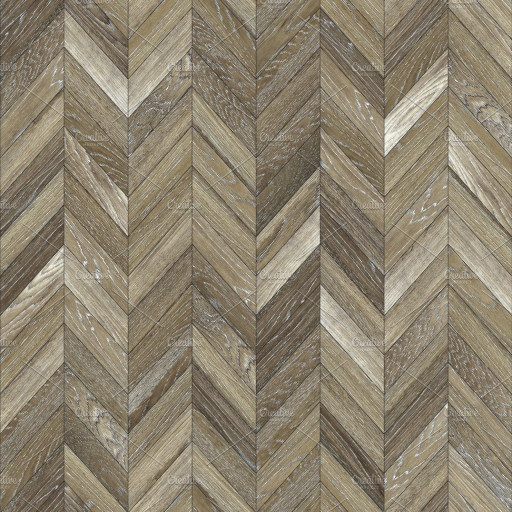
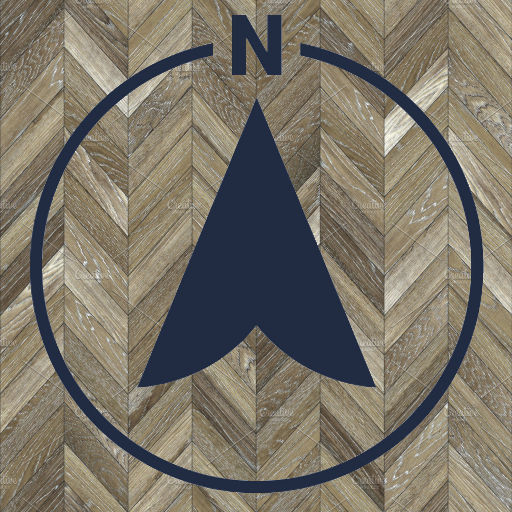
Adds compass and centerpieces (stu)

Changed region(s): [[0.0312, 0.0312, 0.9688, 0.9688], [0.25, 0.1875, 0.75, 0.7812]]

diff --git a/WpfApp2/MazeGui.xaml b/WpfApp2/MazeGui.xaml
@@ -19,7 +19,7 @@
 
                 <ModelVisual3D>
                     <ModelVisual3D.Content>
-                        <DirectionalLight x:Name = "dirLightMain" Direction = "-1,-1,-1">
+                        <DirectionalLight x:Name="dirLightMain" Direction="-1,-1,-1">
                         </DirectionalLight>
                     </ModelVisual3D.Content>
                 </ModelVisual3D>
@@ -30,14 +30,49 @@
                     </ModelVisual3D.Content>
                 </ModelVisual3D>
 
-                <ModelVisual3D x:Name = "MyModel">
+                <ModelVisual3D x:Name="modelCenterpiece">
+                    <ModelVisual3D.Content>
+                        <GeometryModel3D>
+                            
+                            <GeometryModel3D.Geometry>
+                                <MeshGeometry3D x:Name="meshCenterpiece"
+                                    Positions="0 0 0  1 0 0
+                                                0 1 0  1 1 0"
+                                    Normals="0 0 -1  0 0 -1
+                                                0 0 -1  0 0 -1"
+                                    TextureCoordinates="1 1  0 1
+                                                1 0  0 0"
+                                    TriangleIndices="2 1 0  3 1 2">
+                                </MeshGeometry3D>
+                            </GeometryModel3D.Geometry>
+                            
+                            <GeometryModel3D.Material>
+                                <DiffuseMaterial x:Name="matDiffuseCenterpiece">
+                                    <DiffuseMaterial.Brush>
+                                        <ImageBrush ImageSource="Assets/stu.png"/>
+                                    </DiffuseMaterial.Brush>
+                                </DiffuseMaterial>
+                            </GeometryModel3D.Material>
+                            
+                            <GeometryModel3D.Transform>
+                                <Transform3DGroup>
+                                    <TranslateTransform3D OffsetX="-0.5" OffsetY="-0.6" OffsetZ="0"></TranslateTransform3D>
+                                    <ScaleTransform3D ScaleX="0.75" ScaleY="0.75" ScaleZ="1"></ScaleTransform3D>
+                                </Transform3DGroup>
+                            </GeometryModel3D.Transform>
+                            
+                        </GeometryModel3D>
+                    </ModelVisual3D.Content>
+                </ModelVisual3D>
+
+                <ModelVisual3D x:Name="modelWholeRoom">
                     <ModelVisual3D.Content>
                         <Model3DGroup>
                             <Model3DGroup.Children>
                                 <GeometryModel3D>
 
                                     <GeometryModel3D.Geometry>
-                                        <MeshGeometry3D x:Name = "meshFloor"
+                                        <MeshGeometry3D x:Name="meshFloor"
                                             Positions="0 0 0  1 0 0
                                                         0 0 1  1 0 1"
                                             
@@ -54,7 +89,7 @@
                                     </GeometryModel3D.Geometry>
 
                                     <GeometryModel3D.Material>
-                                        <DiffuseMaterial x:Name = "matDiffuseFloor">
+                                        <DiffuseMaterial x:Name="matDiffuseFloor">
                                             <DiffuseMaterial.Brush>
                                                 <ImageBrush ImageSource="Assets/floor.png"/>
                                             </DiffuseMaterial.Brush>
@@ -73,7 +108,7 @@
                                 <GeometryModel3D>
 
                                     <GeometryModel3D.Geometry>
-                                        <MeshGeometry3D x:Name = "meshCeiling"
+                                        <MeshGeometry3D x:Name="meshCeiling"
                                             Positions="0 1 1  1 1 1
                                                         0 1 0  1 1 0"
                                             
@@ -90,7 +125,7 @@
                                     </GeometryModel3D.Geometry>
 
                                     <GeometryModel3D.Material>
-                                        <DiffuseMaterial x:Name = "matDiffuseCeiling">
+                                        <DiffuseMaterial x:Name="matDiffuseCeiling">
                                             <DiffuseMaterial.Brush>
                                                 <ImageBrush ImageSource="Assets/ceil.png"/>
                                             </DiffuseMaterial.Brush>
@@ -108,7 +143,7 @@
 
                                 <GeometryModel3D>
                                     <GeometryModel3D.Geometry>
-                                        <MeshGeometry3D x:Name = "meshWallNorth"
+                                        <MeshGeometry3D x:Name="meshWallNorth"
                                             Positions="0 0 1  1 0 1
                                                         0 1 1  1 1 1"
                                             
@@ -125,7 +160,7 @@
                                     </GeometryModel3D.Geometry>
 
                                     <GeometryModel3D.Material>
-                                        <DiffuseMaterial x:Name = "matDiffuseNorth">
+                                        <DiffuseMaterial x:Name="matDiffuseNorth">
                                         </DiffuseMaterial>
                                     </GeometryModel3D.Material>
 
@@ -140,7 +175,7 @@
 
                                 <GeometryModel3D>
                                     <GeometryModel3D.Geometry>
-                                        <MeshGeometry3D x:Name = "meshWallSouth"
+                                        <MeshGeometry3D x:Name="meshWallSouth"
                                             Positions="1 0 0  0 0 0
                                                         1 1 0  0 1 0"
                                             
@@ -157,7 +192,7 @@
                                     </GeometryModel3D.Geometry>
 
                                     <GeometryModel3D.Material>
-                                        <DiffuseMaterial x:Name = "matDiffuseSouth">
+                                        <DiffuseMaterial x:Name="matDiffuseSouth">
                                         </DiffuseMaterial>
                                     </GeometryModel3D.Material>
 
@@ -172,7 +207,7 @@
 
                                 <GeometryModel3D>
                                     <GeometryModel3D.Geometry>
-                                        <MeshGeometry3D x:Name = "meshWallWest"
+                                        <MeshGeometry3D x:Name="meshWallWest"
                                             Positions="1 0 1  1 0 0
                                                         1 1 1  1 1 0"
                                             
@@ -189,7 +224,7 @@
                                     </GeometryModel3D.Geometry>
 
                                     <GeometryModel3D.Material>
-                                        <DiffuseMaterial x:Name = "matDiffuseWest">
+                                        <DiffuseMaterial x:Name="matDiffuseWest">
                                         </DiffuseMaterial>
                                     </GeometryModel3D.Material>
 
@@ -204,7 +239,7 @@
 
                                 <GeometryModel3D>
                                     <GeometryModel3D.Geometry>
-                                        <MeshGeometry3D x:Name = "meshWallEast"
+                                        <MeshGeometry3D x:Name="meshWallEast"
                                             Positions="0 0 0  0 0 1
                                                         0 1 0  0 1 1"
                                             
@@ -221,7 +256,7 @@
                                     </GeometryModel3D.Geometry>
 
                                     <GeometryModel3D.Material>
-                                        <DiffuseMaterial x:Name = "matDiffuseEast">
+                                        <DiffuseMaterial x:Name="matDiffuseEast">
                                         </DiffuseMaterial>
                                     </GeometryModel3D.Material>
 
@@ -237,7 +272,7 @@
                             <Model3DGroup.Transform>
                                 <RotateTransform3D>
                                     <RotateTransform3D.Rotation>
-                                        <AxisAngleRotation3D x:Name="lookRotation" Axis = "0 2 0"/>
+                                        <AxisAngleRotation3D x:Name="lookRotation" Axis="0 2 0"/>
                                     </RotateTransform3D.Rotation>
                                 </RotateTransform3D>
                             </Model3DGroup.Transform>
@@ -247,9 +282,9 @@
             </Viewport3D.Children>
         </Viewport3D>
 
-        <Button x:Name="btnTurnLeft" Content="Left" HorizontalAlignment="Left" Margin="10,0,0,10" VerticalAlignment="Bottom" Width="150" Height="40" Click="btnTurnLeft_Click"/>
-        <Button x:Name="btnTurnRight" Content="Right" HorizontalAlignment="Right" Margin="0,0,10,10" VerticalAlignment="Bottom" Width="150" Height="40" Click="btnTurnRight_Click"/>
-        <Button x:Name="btnAction" Content="Action" HorizontalAlignment="Center" Margin="0,0,0,10" VerticalAlignment="Bottom" Width="85" Height="70" Click="btnAction_Click"/>
+        <Button x:Name="btnTurnLeft" Content="Left" HorizontalAlignment="Left" Margin="10,0,0,10" VerticalAlignment="Bottom" Width="150" Height="40" Click="btnTurnLeft_Click" Opacity="0.75"/>
+        <Button x:Name="btnTurnRight" Content="Right" HorizontalAlignment="Right" Margin="0,0,10,10" VerticalAlignment="Bottom" Width="150" Height="40" Click="btnTurnRight_Click" Opacity="0.75"/>
+        <Button x:Name="btnAction" Content="Action" Margin="0,0,10,55" VerticalAlignment="Bottom" Width="85" Height="70" Click="btnAction_Click" MinWidth="85" MinHeight="70" HorizontalAlignment="Right" Opacity="0.75"/>
     </Grid>
 </Window>
 
